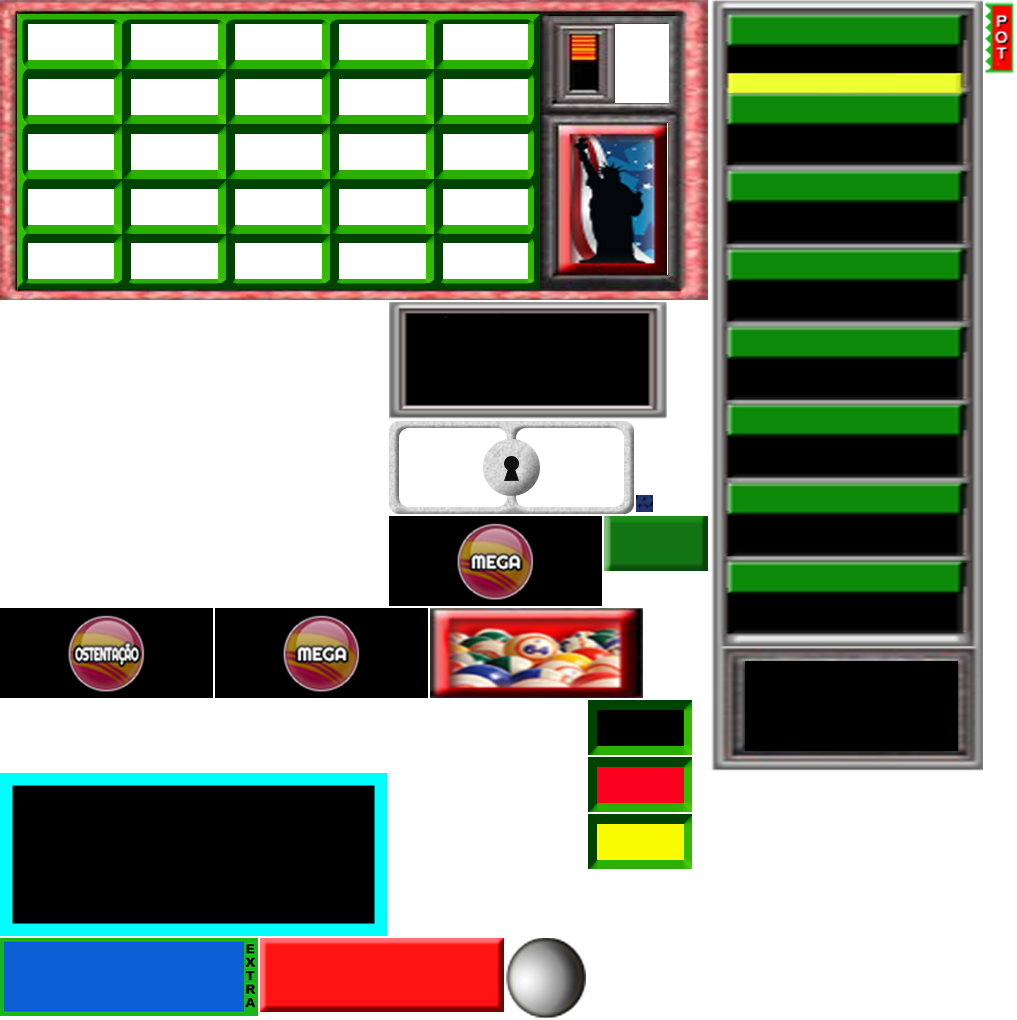
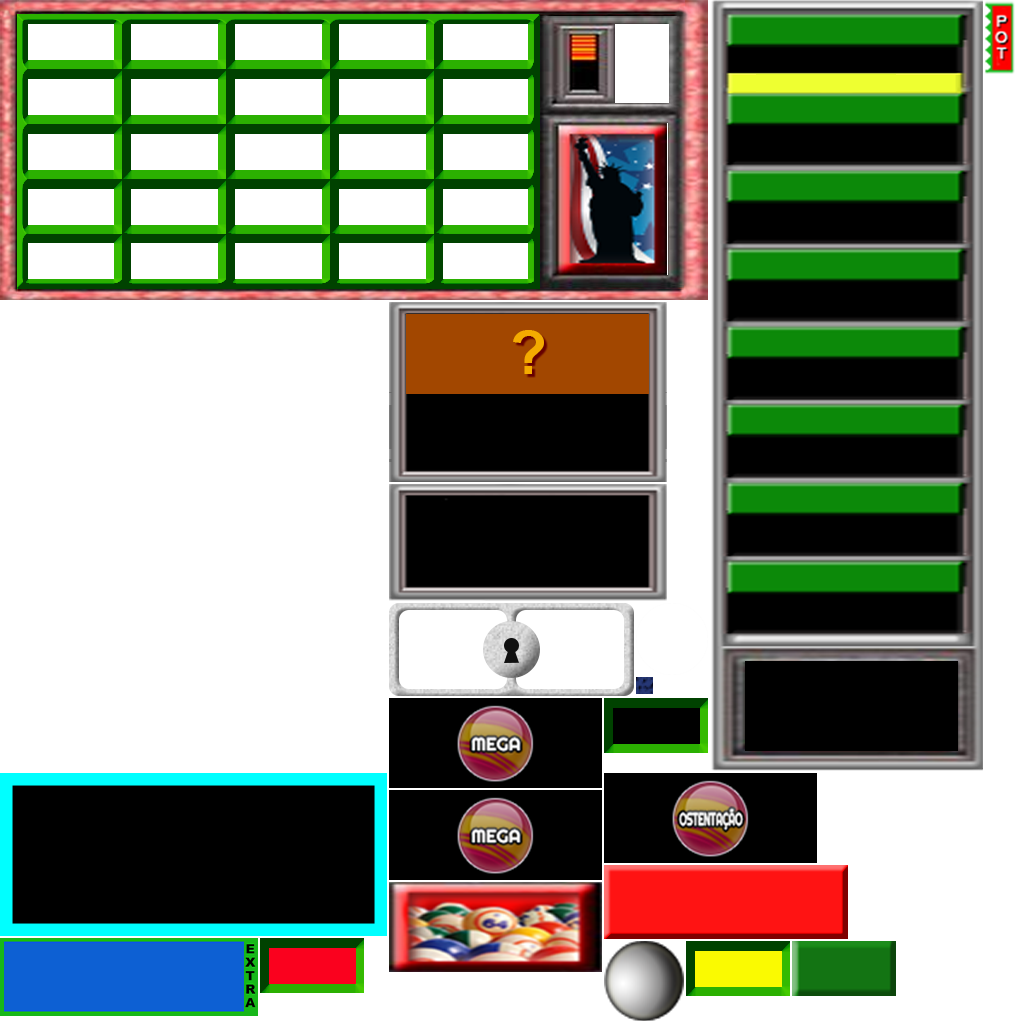
add help jackpot bg

diff --git a/newMoblie/src/bingoGames/v1games/champion/Champion.ts b/newMoblie/src/bingoGames/v1games/champion/Champion.ts
@@ -18,7 +18,7 @@ class Champion extends V1Game{
 
 		GameCard.gridOnTop = true;
 
-        CardGrid.defaultNumberSize = 25;
+        CardGrid.defaultNumberSize = 40;
 
 		GameCard.useRedEffect = true;
 
